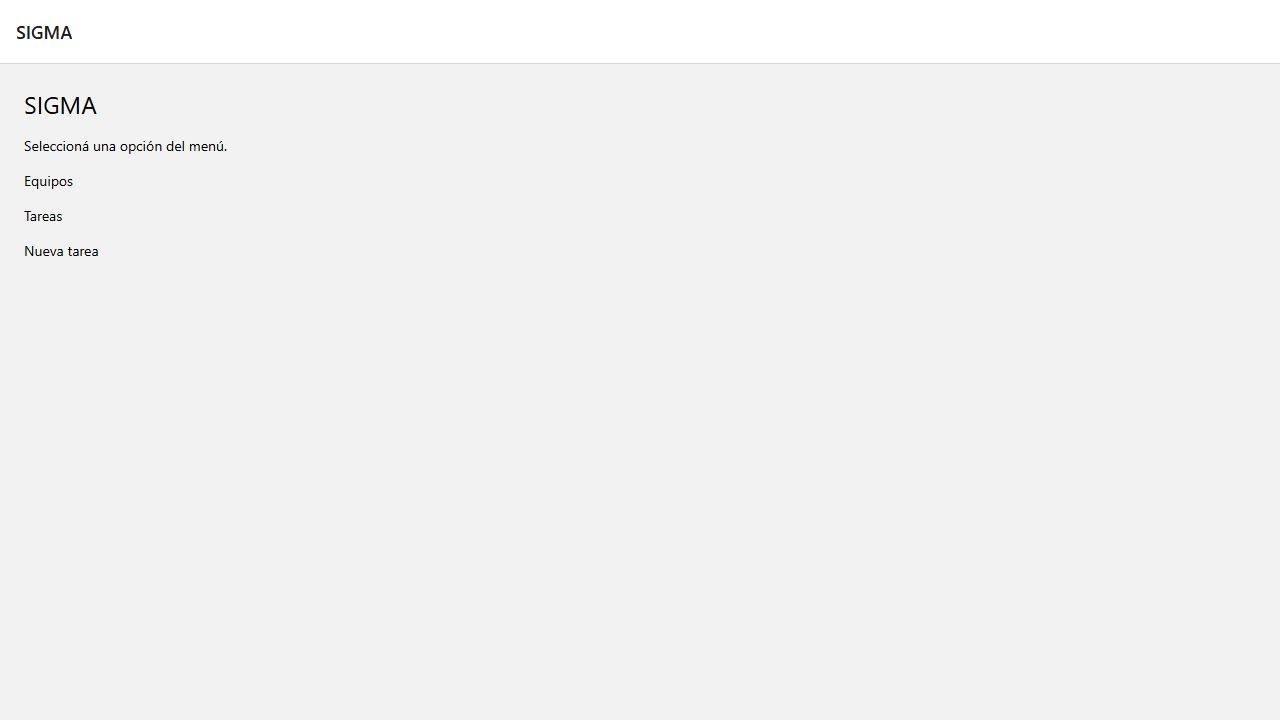
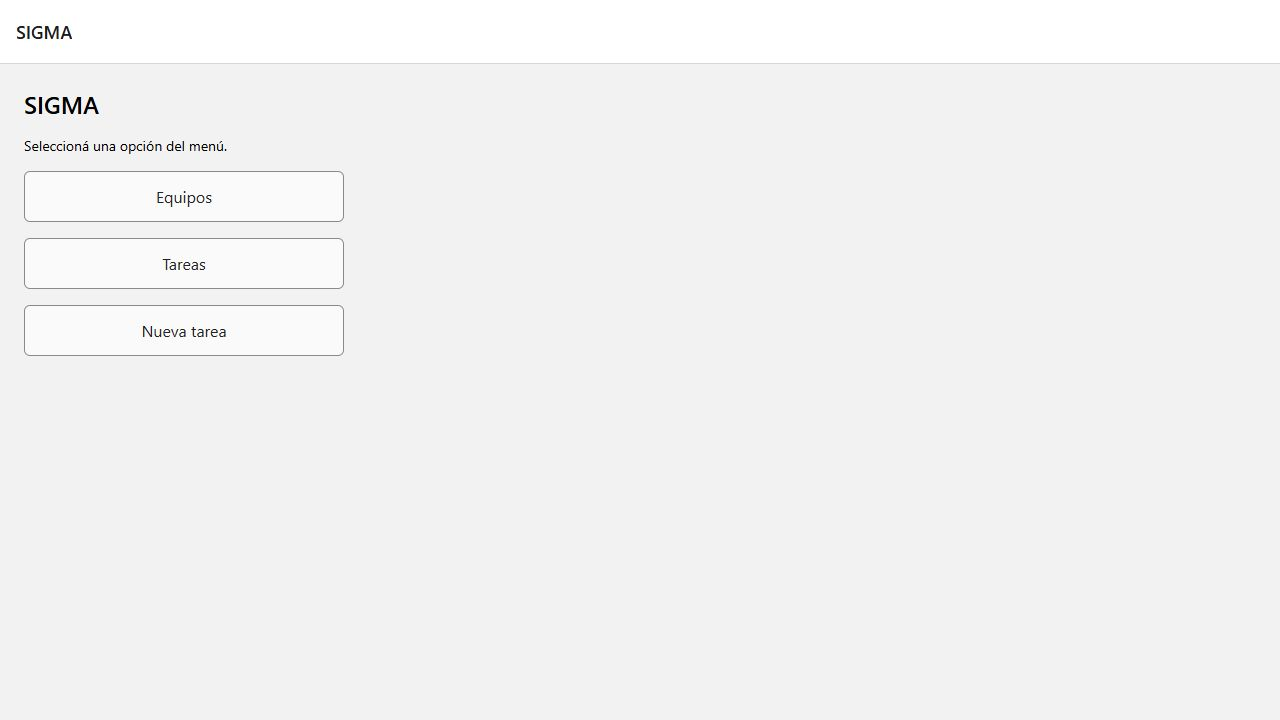
style: agregar bordes sencillos a los botones y actualizar capturas

diff --git a/app/equipos/index.tsx b/app/equipos/index.tsx
@@ -1,18 +1,19 @@
+import { styles } from '../../styles';
 import { Link } from 'expo-router';
 import { View, Text, Pressable } from 'react-native';
 
 export default function Equipos() {
   return (
-    <View style={{ flex: 1, padding: 24, gap: 16 }}>
-      <Text style={{ fontSize: 24 }}>Equipos</Text>
+    <View style={styles.screen}>
+      <Text style={styles.title}>Equipos</Text>
       <Text>Seleccioná un equipo para ver su detalle.</Text>
       <Link href={{ pathname: '/equipos/[id]', params: { id: '1' } }} asChild>
-        <Pressable><Text>Equipo 1</Text></Pressable>
+        <Pressable style={styles.button}><Text style={styles.buttonText}>Equipo 1</Text></Pressable>
       </Link>
       <Link href={{ pathname: '/equipos/[id]', params: { id: '2' } }} asChild>
-        <Pressable><Text>Equipo 2</Text></Pressable>
+        <Pressable style={styles.button}><Text style={styles.buttonText}>Equipo 2</Text></Pressable>
       </Link>
-      <Link href="/">Volver al inicio</Link>
+      <Link href="/" asChild><Pressable style={styles.button}><Text style={styles.buttonText}>Volver al inicio</Text></Pressable></Link>
     </View>
   );
 }

diff --git a/app/index.tsx b/app/index.tsx
@@ -1,19 +1,20 @@
+import { styles } from '../styles';
 import { Link } from 'expo-router';
 import { View, Text, Pressable } from 'react-native';
 
 export default function Inicio() {
   return (
-    <View style={{ flex: 1, padding: 24, gap: 16 }}>
-      <Text style={{ fontSize: 24 }}>SIGMA</Text>
+    <View style={styles.screen}>
+      <Text style={styles.title}>SIGMA</Text>
       <Text>Seleccioná una opción del menú.</Text>
       <Link href="/equipos" asChild>
-        <Pressable><Text>Equipos</Text></Pressable>
+        <Pressable style={styles.button}><Text style={styles.buttonText}>Equipos</Text></Pressable>
       </Link>
       <Link href="/tareas" asChild>
-        <Pressable><Text>Tareas</Text></Pressable>
+        <Pressable style={styles.button}><Text style={styles.buttonText}>Tareas</Text></Pressable>
       </Link>
       <Link href="/nueva-tarea" asChild>
-        <Pressable><Text>Nueva tarea</Text></Pressable>
+        <Pressable style={styles.button}><Text style={styles.buttonText}>Nueva tarea</Text></Pressable>
       </Link>
     </View>
   );

diff --git a/app/equipos/[id].tsx b/app/equipos/[id].tsx
@@ -1,13 +1,14 @@
+import { styles } from '../../styles';
 import { Link, useLocalSearchParams } from 'expo-router';
-import { View, Text } from 'react-native';
+import { View, Text, Pressable } from 'react-native';
 
 export default function DetalleEquipo() {
   const { id } = useLocalSearchParams<{ id: string }>();
   return (
-    <View style={{ flex: 1, padding: 24, gap: 16 }}>
-      <Text style={{ fontSize: 24 }}>Detalle del equipo</Text>
+    <View style={styles.screen}>
+      <Text style={styles.title}>Detalle del equipo</Text>
       <Text>ID del equipo: {id}</Text>
-      <Link href="/equipos">Volver a Equipos</Link>
+      <Link href="/equipos" asChild><Pressable style={styles.button}><Text style={styles.buttonText}>Volver a Equipos</Text></Pressable></Link>
     </View>
   );
 }

diff --git a/app/nueva-tarea.tsx b/app/nueva-tarea.tsx
@@ -1,12 +1,13 @@
+import { styles } from '../styles';
 import { Link } from 'expo-router';
-import { View, Text } from 'react-native';
+import { View, Text, Pressable } from 'react-native';
 
 export default function NuevaTarea() {
   return (
-    <View style={{ flex: 1, padding: 24, gap: 16 }}>
-      <Text style={{ fontSize: 24 }}>Nueva tarea</Text>
+    <View style={styles.screen}>
+      <Text style={styles.title}>Nueva tarea</Text>
       <Text>Esta es la pantalla destinada a crear una nueva tarea.</Text>
-      <Link href="/">Volver al inicio</Link>
+      <Link href="/" asChild><Pressable style={styles.button}><Text style={styles.buttonText}>Volver al inicio</Text></Pressable></Link>
     </View>
   );
 }

diff --git a/app/tareas.tsx b/app/tareas.tsx
@@ -1,12 +1,13 @@
+import { styles } from '../styles';
 import { Link } from 'expo-router';
-import { View, Text } from 'react-native';
+import { View, Text, Pressable } from 'react-native';
 
 export default function Tareas() {
   return (
-    <View style={{ flex: 1, padding: 24, gap: 16 }}>
-      <Text style={{ fontSize: 24 }}>Tareas</Text>
+    <View style={styles.screen}>
+      <Text style={styles.title}>Tareas</Text>
       <Text>Esta es la pantalla de tareas de SIGMA.</Text>
-      <Link href="/">Volver al inicio</Link>
+      <Link href="/" asChild><Pressable style={styles.button}><Text style={styles.buttonText}>Volver al inicio</Text></Pressable></Link>
     </View>
   );
 }

diff --git a/styles.ts b/styles.ts
@@ -1,0 +1,17 @@
+import { StyleSheet } from 'react-native';
+
+export const styles = StyleSheet.create({
+  screen: { flex: 1, padding: 24, gap: 16 },
+  title: { fontSize: 24, fontWeight: '600' },
+  button: {
+    borderWidth: 1,
+    borderColor: '#8a8a8a',
+    borderRadius: 6,
+    backgroundColor: '#fafafa',
+    padding: 14,
+    width: '100%',
+    maxWidth: 320,
+    alignItems: 'center',
+  },
+  buttonText: { fontSize: 16, color: '#222' },
+});

diff --git a/README.md b/README.md
@@ -16,7 +16,7 @@ Tareas y Nueva tarea son pantallas de presentación. El alcance de esta activida
 
 ## Tecnologías
 
-React Native, Expo SDK 57, Expo Router, React y TypeScript. Se utilizan componentes básicos y estilos mínimos de separación y tamaño de texto.
+React Native, Expo SDK 57, Expo Router, React y TypeScript. Se utilizan componentes básicos y estilos sencillos: botones con borde, fondo claro y separación entre elementos. Los estilos se comparten desde `styles.ts`.
 
 ## Cómo ejecutarlo
 
@@ -59,6 +59,7 @@ app.json            Configuración de Expo
 package.json        Dependencias y comandos
 package-lock.json   Versiones fijadas de las dependencias
 tsconfig.json       Configuración de TypeScript
+styles.ts           Estilos básicos de las pantallas y botones
 .gitignore          Exclusiones de Git
 ```
 
